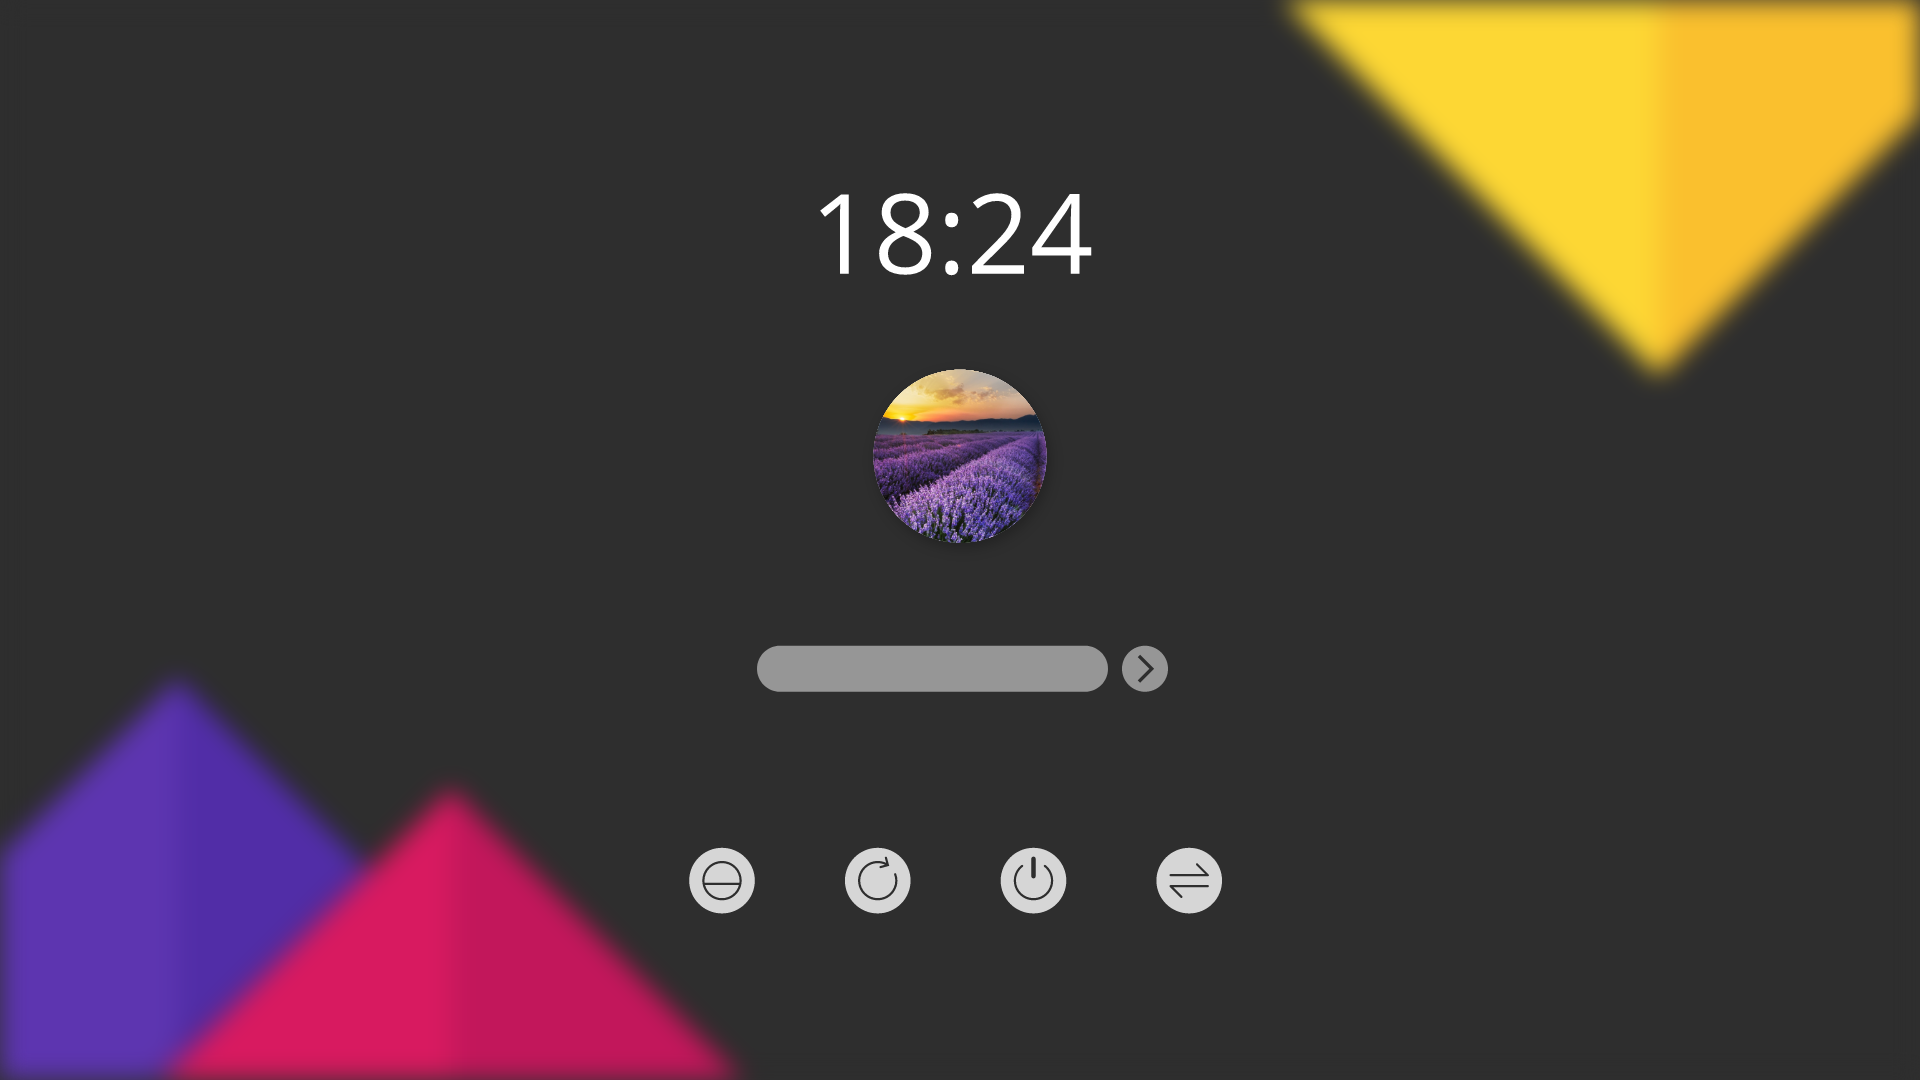
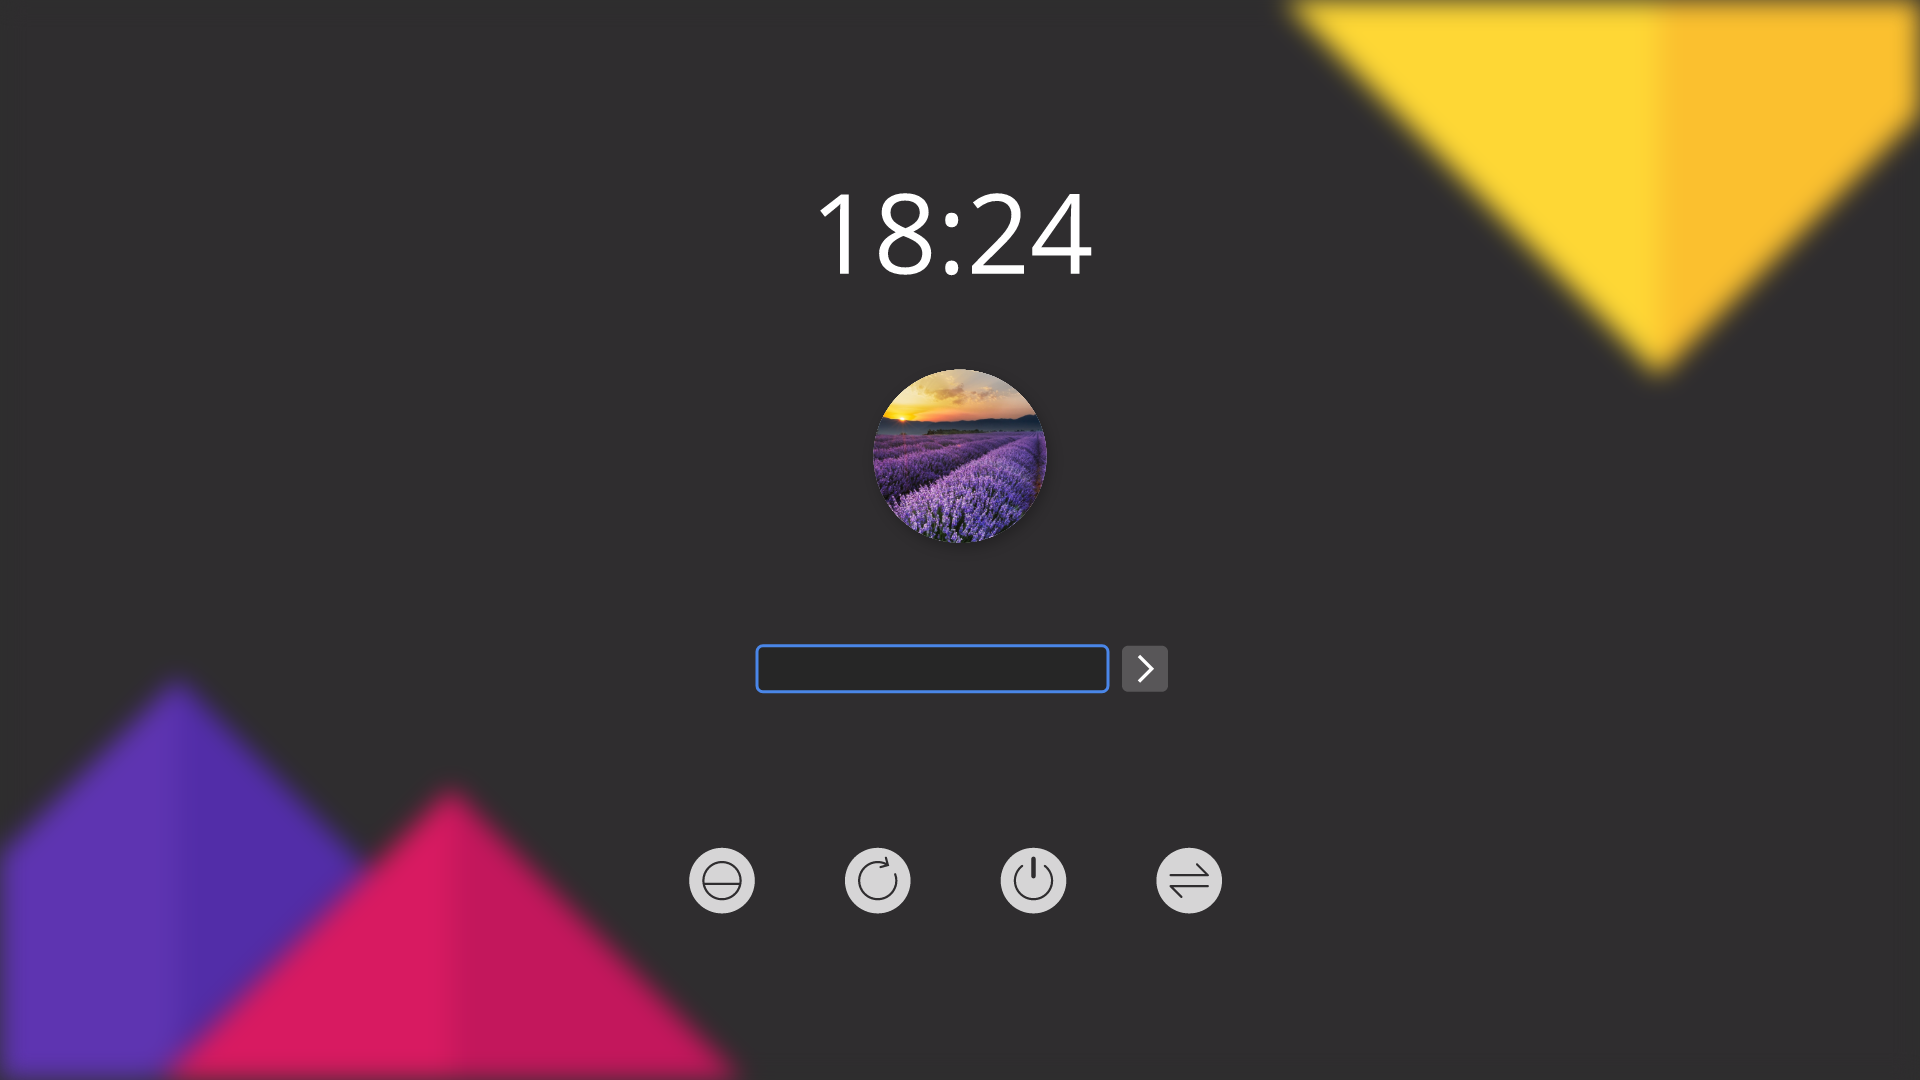
update sddm theme

Changed region(s): [[0.375, 0.5806, 0.625, 0.6417]]

diff --git a/sddm/ChromeOS/Login.qml b/sddm/ChromeOS/Login.qml
@@ -45,18 +45,20 @@ SessionManagementScreen {
         implicitHeight: root.height / 28
         font.family: config.Font || "Noto Sans"
         font.pointSize: usernameFontSize
-        opacity: 0.5
+        opacity: 1.0
         text: lastUserName
         visible: showUsernamePrompt
         focus: showUsernamePrompt && !lastUserName //if there's a username prompt it gets focus first, otherwise password does
         placeholderText: i18nd("plasma_lookandfeel_org.kde.lookandfeel", "Username")
 
         style: TextFieldStyle {
-            textColor: "black"
-            placeholderTextColor: "black"
+            textColor: "white"
+            placeholderTextColor: "white"
             background: Rectangle {
-                radius: 100
-                color: "white"
+                radius: 6
+                border.color: "#1A73E8"
+                border.width: 2
+                color: "#262626"
             }
         }
     }
@@ -68,7 +70,7 @@ SessionManagementScreen {
         Layout.minimumHeight: 32
         implicitHeight: usernameFontSize * 2.85
         font.pointSize: usernameFontSize * 0.8
-        opacity: passwordFieldOutlined ? 1.0 : 0.5
+        opacity: passwordFieldOutlined ? 1.0 : 1.0
         font.family: config.Font || "Noto Sans"
         placeholderText: config.PasswordFieldPlaceholderText == "Password" ? i18nd("plasma_lookandfeel_org.kde.lookandfeel", "Password") : config.PasswordFieldPlaceholderText
         focus: !showUsernamePrompt || lastUserName
@@ -77,14 +79,14 @@ SessionManagementScreen {
         onAccepted: startLogin()
 
         style: TextFieldStyle {
-            textColor: passwordFieldOutlined ? "white" : "black"
+            textColor: passwordFieldOutlined ? "white" : "white"
             placeholderTextColor: passwordFieldOutlined ? "white" : "white"
             passwordCharacter: config.PasswordFieldCharacter == "" ? "●" : config.PasswordFieldCharacter
             background: Rectangle {
-                radius: 100
-                border.color: "white"
-                border.width: 1
-                color: "white"
+                radius: 6
+                border.color: "#1A73E8"
+                border.width: 2
+                color: "#262626"
             }
         }
 
